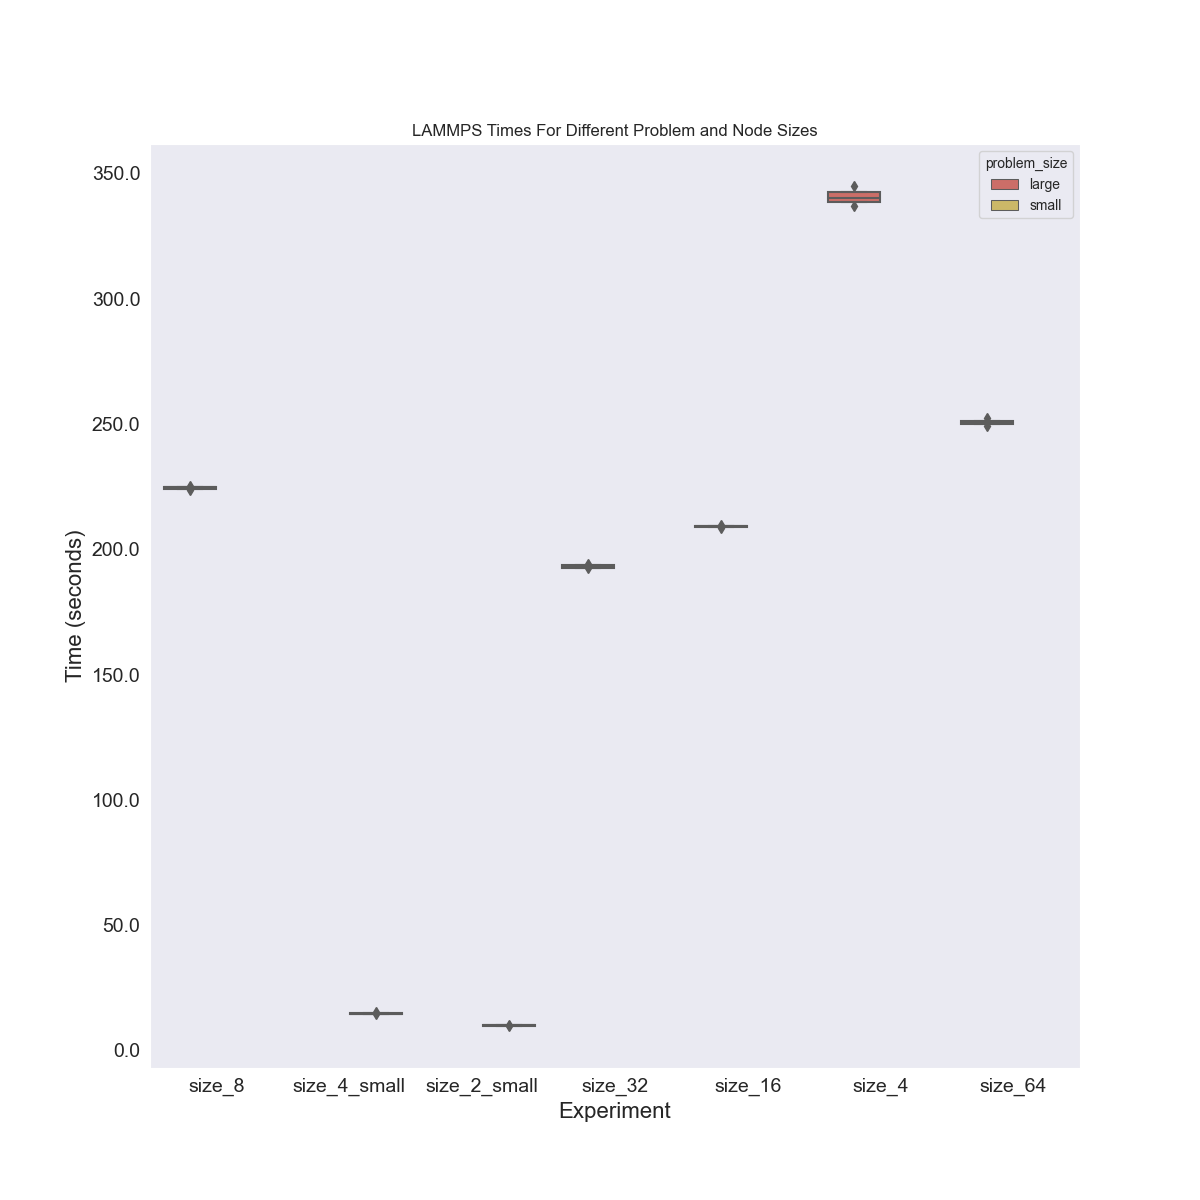
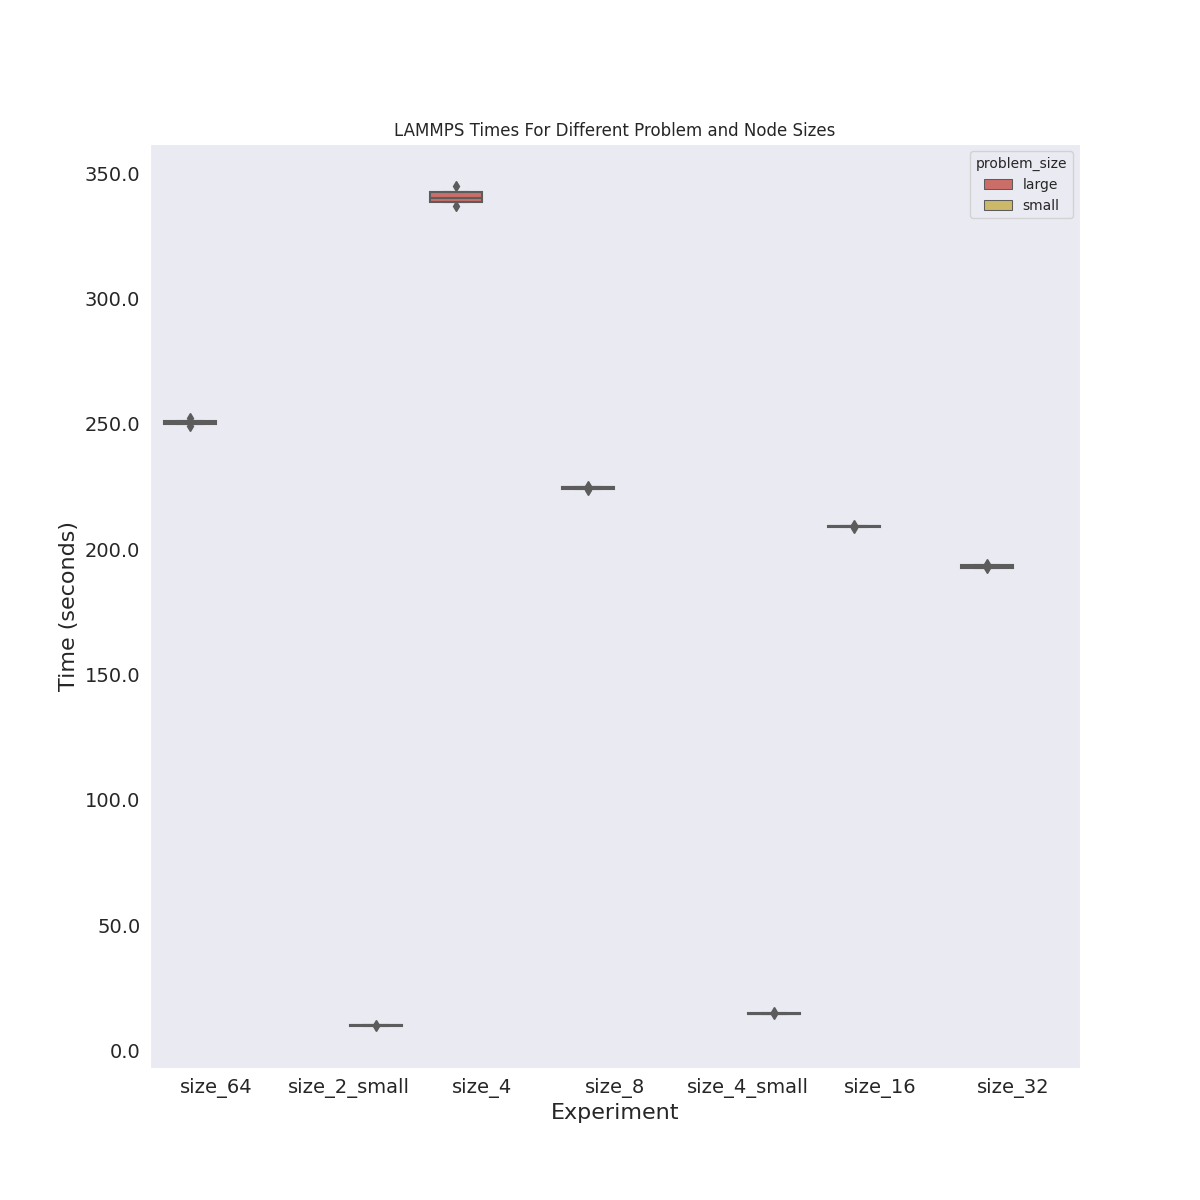
remove ipython and adjust axis labels

diff --git a/google/service-timing/run13/c2d-standard-112-64/plot-results.py b/google/service-timing/run13/c2d-standard-112-64/plot-results.py
@@ -19,6 +19,7 @@ def read_json(filename):
         content = json.loads(fd.read())
     return content
 
+
 def recursive_find(base, pattern="json"):
     """
     Recursively find lammps output files.
@@ -49,10 +50,6 @@ def plot_outputs(df, plotname="lammps", ext="pdf", outdir=None):
     if not os.path.exists(outdir):
         os.makedirs(outdir)
 
-    import IPython
-    IPython.embed()
-    sys.exit()
-
     # Let's make a plot that shows distributions of the times by the cluster size, across all
     make_plot(
         df,
@@ -72,10 +69,11 @@ def plot_outputs(df, plotname="lammps", ext="pdf", outdir=None):
 
     colors = sns.color_palette("hls", 8)
     hexcolors = colors.as_hex()
-    small = df[df.problem_size=="small"]
-    small.experiment = [int(x.replace('size_', "").replace('_small', '')) for x in small.experiment]
-    small = small.sort_values(by='experiment')
-    types = list(large.experiment.unique())
+    small = df[df.problem_size == "small"]
+    small.experiment = [
+        int(x.replace("size_", "").replace("_small", "")) for x in small.experiment
+    ]
+    small = small.sort_values(by="experiment")
     types.sort()
 
     types = list(small.experiment.unique())
@@ -85,7 +83,7 @@ def plot_outputs(df, plotname="lammps", ext="pdf", outdir=None):
     palette = collections.OrderedDict()
     for t in types:
         palette[t] = hexcolors.pop(0)
-    
+
     # That's not great - let's split into large and small
     make_plot(
         small,
@@ -103,12 +101,12 @@ def plot_outputs(df, plotname="lammps", ext="pdf", outdir=None):
         ylabel="Time (seconds)",
     )
 
-
+    # Make one more concise plot with ranks, and just for the large problem size
     colors = sns.color_palette("hls", 8)
     hexcolors = colors.as_hex()
-    large = df[df.problem_size=="large"]
-    large.experiment = [int(x.replace('size_', "")) for x in large.experiment]
-    large = large.sort_values(by='experiment')
+    large = df[df.problem_size == "large"]
+    large.experiment = [int(x.replace("size_", "")) for x in large.experiment]
+    large = large.sort_values(by="experiment")
     types = list(large.experiment.unique())
     types.sort()
 
@@ -117,7 +115,7 @@ def plot_outputs(df, plotname="lammps", ext="pdf", outdir=None):
     palette = collections.OrderedDict()
     for t in types:
         palette[t] = hexcolors.pop(0)
-    
+
     # That's not great - let's split into large and small
     make_plot(
         large,
@@ -131,7 +129,7 @@ def plot_outputs(df, plotname="lammps", ext="pdf", outdir=None):
         plotname=plotname,
         hue="experiment",
         plot_type="bar",
-        xlabel="Experiment",
+        xlabel="Experiment Nodes",
         ylabel="Time (seconds)",
     )
 
@@ -179,9 +177,7 @@ def get_parser():
     Process results file into plots.
     """
     parser = argparse.ArgumentParser(description="Plot LAMMPS outputs")
-    parser.add_argument(
-        "data", help="data directory", default="data", nargs="?"
-    )
+    parser.add_argument("data", help="data directory", default="data", nargs="?")
     parser.add_argument(
         "-o",
         "--outdir",
@@ -197,30 +193,32 @@ def get_parser():
     )
     return parser
 
+
 def read_data(dirname):
     """
     Read data into dataframe for plotting.
     """
-    df = pandas.DataFrame(columns=["experiment", "iter", "time", "problem_size"])   
+    df = pandas.DataFrame(columns=["experiment", "iter", "time", "problem_size"])
     idx = 0
     for datafile in recursive_find(dirname):
         if "nodes.json" in datafile or "pods.json" in datafile:
             continue
-        if not os.path.basename(datafile).startswith('lammps'):
+        if not os.path.basename(datafile).startswith("lammps"):
             continue
         res = read_json(datafile)
-        iter = int(os.path.basename(datafile).split('-')[1])
+        iter = int(os.path.basename(datafile).split("-")[1])
 
         # Kind of janky!
         experiment = os.path.basename(os.path.dirname(datafile))
         problem_size = "large"
         if "small" in experiment:
             problem_size = "small"
-        df.loc[idx, :] = [experiment, iter, res['runtime'], problem_size]
-        idx +=1
+        df.loc[idx, :] = [experiment, iter, res["runtime"], problem_size]
+        idx += 1
 
-    df.to_csv(os.path.join(dirname, 'results.csv'))
+    df.to_csv(os.path.join(dirname, "results.csv"))
     return df
+
 
 def main():
     """
@@ -232,6 +230,7 @@ def main():
         sys.exit(f"{args.data} does not exist.")
     data = read_data(args.data)
     plot_outputs(data, ext=args.extension, outdir=args.outdir)
+
 
 if __name__ == "__main__":
     main()

diff --git a/google/service-timing/run13/c2d-standard-112-64/run-experiments.py b/google/service-timing/run13/c2d-standard-112-64/run-experiments.py
@@ -164,7 +164,6 @@ def main():
         print(f"Submit {jobid}: {count} of {args.times}")
         jobs.append(jobid)
 
-
     # At this point all jobs are submit, and each should use all resources
     # so we *should* be running one at a time. Now we can wait for each to save output, etc.
     # Wait for futures
@@ -189,6 +188,7 @@ def main():
         with open(outfile, "w") as fd:
             fd.write(json.dumps(info, indent=4))
     print("Jobs are complete, goodbye! 👋")
+
 
 if __name__ == "__main__":
     main()
